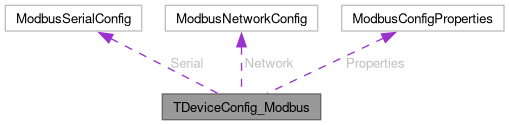
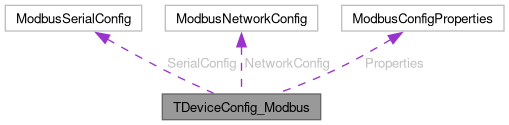
deploy: 09f88b0edcd4f0521835c6c754af1b856fd0163e

diff --git a/structTDeviceConfig__Modbus.html b/structTDeviceConfig__Modbus.html
@@ -97,11 +97,11 @@ Collaboration diagram for TDeviceConfig_Modbus:</div>
 <map name="aTDeviceConfig__Modbus_coll__map" id="aTDeviceConfig__Modbus_coll__map">
 <area shape="rect" title=" " alt="" coords="162,94,321,120"/>
 <area shape="rect" href="structModbusSerialConfig.html" title=" " alt="" coords="5,5,142,31"/>
-<area shape="poly" title=" " alt="" coords="112,36,219,91,217,96,110,41"/>
+<area shape="poly" title=" " alt="" coords="109,37,165,68,215,91,213,96,163,72,106,41"/>
 <area shape="rect" href="structModbusNetworkConfig.html" title=" " alt="" coords="165,5,318,31"/>
 <area shape="poly" title=" " alt="" coords="244,47,244,94,239,94,239,47"/>
 <area shape="rect" href="structModbusConfigProperties.html" title=" " alt="" coords="342,5,504,31"/>
-<area shape="poly" title=" " alt="" coords="385,41,268,96,266,91,382,36"/>
+<area shape="poly" title=" " alt="" coords="392,42,336,72,278,96,276,91,334,68,390,37"/>
 </map>
 <center><span class="legend">[<a href="graph_legend.html">legend</a>]</span></center></div>
 <table class="memberdecls">
@@ -116,12 +116,12 @@ unsigned char&#160;</td><td class="memItemRight" valign="bottom"><b>ModbusAddres
 <tr class="memitem:ae9d050d392f2681982792315d1c26feb" id="r_ae9d050d392f2681982792315d1c26feb"><td class="memItemLeft" align="right" valign="top"><a id="ae9d050d392f2681982792315d1c26feb" name="ae9d050d392f2681982792315d1c26feb"></a>
 unsigned _supla_int_t&#160;</td><td class="memItemRight" valign="bottom"><b>SlaveTimeoutMs</b></td></tr>
 <tr class="separator:ae9d050d392f2681982792315d1c26feb"><td class="memSeparator" colspan="2">&#160;</td></tr>
-<tr class="memitem:a705215c58be7b27e43768f9444173866" id="r_a705215c58be7b27e43768f9444173866"><td class="memItemLeft" align="right" valign="top"><a id="a705215c58be7b27e43768f9444173866" name="a705215c58be7b27e43768f9444173866"></a>
-<a class="el" href="structModbusSerialConfig.html">ModbusSerialConfig</a>&#160;</td><td class="memItemRight" valign="bottom"><b>Serial</b></td></tr>
-<tr class="separator:a705215c58be7b27e43768f9444173866"><td class="memSeparator" colspan="2">&#160;</td></tr>
-<tr class="memitem:a4c4c369b05a143f17951b0f72759ae0e" id="r_a4c4c369b05a143f17951b0f72759ae0e"><td class="memItemLeft" align="right" valign="top"><a id="a4c4c369b05a143f17951b0f72759ae0e" name="a4c4c369b05a143f17951b0f72759ae0e"></a>
-<a class="el" href="structModbusNetworkConfig.html">ModbusNetworkConfig</a>&#160;</td><td class="memItemRight" valign="bottom"><b>Network</b></td></tr>
-<tr class="separator:a4c4c369b05a143f17951b0f72759ae0e"><td class="memSeparator" colspan="2">&#160;</td></tr>
+<tr class="memitem:a7bc47ae1f204c3f8ed4a31fa35e57188" id="r_a7bc47ae1f204c3f8ed4a31fa35e57188"><td class="memItemLeft" align="right" valign="top"><a id="a7bc47ae1f204c3f8ed4a31fa35e57188" name="a7bc47ae1f204c3f8ed4a31fa35e57188"></a>
+<a class="el" href="structModbusSerialConfig.html">ModbusSerialConfig</a>&#160;</td><td class="memItemRight" valign="bottom"><b>SerialConfig</b></td></tr>
+<tr class="separator:a7bc47ae1f204c3f8ed4a31fa35e57188"><td class="memSeparator" colspan="2">&#160;</td></tr>
+<tr class="memitem:a388f48bfa25d1a9829f5d02fe24d9327" id="r_a388f48bfa25d1a9829f5d02fe24d9327"><td class="memItemLeft" align="right" valign="top"><a id="a388f48bfa25d1a9829f5d02fe24d9327" name="a388f48bfa25d1a9829f5d02fe24d9327"></a>
+<a class="el" href="structModbusNetworkConfig.html">ModbusNetworkConfig</a>&#160;</td><td class="memItemRight" valign="bottom"><b>NetworkConfig</b></td></tr>
+<tr class="separator:a388f48bfa25d1a9829f5d02fe24d9327"><td class="memSeparator" colspan="2">&#160;</td></tr>
 <tr class="memitem:a3f6b1f6bdd50fc2e788b8e36b3bfec5b" id="r_a3f6b1f6bdd50fc2e788b8e36b3bfec5b"><td class="memItemLeft" align="right" valign="top"><a id="a3f6b1f6bdd50fc2e788b8e36b3bfec5b" name="a3f6b1f6bdd50fc2e788b8e36b3bfec5b"></a>
 <a class="el" href="structModbusConfigProperties.html">ModbusConfigProperties</a>&#160;</td><td class="memItemRight" valign="bottom"><b>Properties</b></td></tr>
 <tr class="separator:a3f6b1f6bdd50fc2e788b8e36b3bfec5b"><td class="memSeparator" colspan="2">&#160;</td></tr>

diff --git a/structTDeviceConfig__Modbus-members.html b/structTDeviceConfig__Modbus-members.html
@@ -91,11 +91,11 @@ $(function(){ initResizable(false); });
 <p>This is the complete list of members for <a class="el" href="structTDeviceConfig__Modbus.html">TDeviceConfig_Modbus</a>, including all inherited members.</p>
 <table class="directory">
   <tr bgcolor="#f0f0f0" class="even"><td class="entry"><b>ModbusAddress</b> (defined in <a class="el" href="structTDeviceConfig__Modbus.html">TDeviceConfig_Modbus</a>)</td><td class="entry"><a class="el" href="structTDeviceConfig__Modbus.html">TDeviceConfig_Modbus</a></td><td class="entry"></td></tr>
-  <tr bgcolor="#f0f0f0" class="odd"><td class="entry"><b>Network</b> (defined in <a class="el" href="structTDeviceConfig__Modbus.html">TDeviceConfig_Modbus</a>)</td><td class="entry"><a class="el" href="structTDeviceConfig__Modbus.html">TDeviceConfig_Modbus</a></td><td class="entry"></td></tr>
+  <tr bgcolor="#f0f0f0" class="odd"><td class="entry"><b>NetworkConfig</b> (defined in <a class="el" href="structTDeviceConfig__Modbus.html">TDeviceConfig_Modbus</a>)</td><td class="entry"><a class="el" href="structTDeviceConfig__Modbus.html">TDeviceConfig_Modbus</a></td><td class="entry"></td></tr>
   <tr bgcolor="#f0f0f0" class="even"><td class="entry"><b>Properties</b> (defined in <a class="el" href="structTDeviceConfig__Modbus.html">TDeviceConfig_Modbus</a>)</td><td class="entry"><a class="el" href="structTDeviceConfig__Modbus.html">TDeviceConfig_Modbus</a></td><td class="entry"></td></tr>
   <tr bgcolor="#f0f0f0" class="odd"><td class="entry"><b>Reserved</b> (defined in <a class="el" href="structTDeviceConfig__Modbus.html">TDeviceConfig_Modbus</a>)</td><td class="entry"><a class="el" href="structTDeviceConfig__Modbus.html">TDeviceConfig_Modbus</a></td><td class="entry"></td></tr>
   <tr bgcolor="#f0f0f0" class="even"><td class="entry"><b>Role</b> (defined in <a class="el" href="structTDeviceConfig__Modbus.html">TDeviceConfig_Modbus</a>)</td><td class="entry"><a class="el" href="structTDeviceConfig__Modbus.html">TDeviceConfig_Modbus</a></td><td class="entry"></td></tr>
-  <tr bgcolor="#f0f0f0" class="odd"><td class="entry"><b>Serial</b> (defined in <a class="el" href="structTDeviceConfig__Modbus.html">TDeviceConfig_Modbus</a>)</td><td class="entry"><a class="el" href="structTDeviceConfig__Modbus.html">TDeviceConfig_Modbus</a></td><td class="entry"></td></tr>
+  <tr bgcolor="#f0f0f0" class="odd"><td class="entry"><b>SerialConfig</b> (defined in <a class="el" href="structTDeviceConfig__Modbus.html">TDeviceConfig_Modbus</a>)</td><td class="entry"><a class="el" href="structTDeviceConfig__Modbus.html">TDeviceConfig_Modbus</a></td><td class="entry"></td></tr>
   <tr bgcolor="#f0f0f0" class="even"><td class="entry"><b>SlaveTimeoutMs</b> (defined in <a class="el" href="structTDeviceConfig__Modbus.html">TDeviceConfig_Modbus</a>)</td><td class="entry"><a class="el" href="structTDeviceConfig__Modbus.html">TDeviceConfig_Modbus</a></td><td class="entry"></td></tr>
 </table></div><!-- contents -->
 <!-- start footer part -->

diff --git a/proto_8h_source.html b/proto_8h_source.html
@@ -3355,8 +3355,8 @@ $(function(){ initResizable(false); });
 <div class="line"><a id="l02929" name="l02929"></a><span class="lineno"> 2929</span>  <span class="keywordtype">unsigned</span> <span class="keywordtype">char</span> Role;  <span class="comment">// MODBUS_ROLE_*</span></div>
 <div class="line"><a id="l02930" name="l02930"></a><span class="lineno"> 2930</span>  <span class="keywordtype">unsigned</span> <span class="keywordtype">char</span> ModbusAddress;  <span class="comment">// only for slave</span></div>
 <div class="line"><a id="l02931" name="l02931"></a><span class="lineno"> 2931</span>  <span class="keywordtype">unsigned</span> _supla_int_t SlaveTimeoutMs;  <span class="comment">// only for master</span></div>
-<div class="line"><a id="l02932" name="l02932"></a><span class="lineno"> 2932</span>  <a class="code hl_struct" href="structModbusSerialConfig.html">ModbusSerialConfig</a> Serial;</div>
-<div class="line"><a id="l02933" name="l02933"></a><span class="lineno"> 2933</span>  <a class="code hl_struct" href="structModbusNetworkConfig.html">ModbusNetworkConfig</a> Network;</div>
+<div class="line"><a id="l02932" name="l02932"></a><span class="lineno"> 2932</span>  <a class="code hl_struct" href="structModbusSerialConfig.html">ModbusSerialConfig</a> SerialConfig;</div>
+<div class="line"><a id="l02933" name="l02933"></a><span class="lineno"> 2933</span>  <a class="code hl_struct" href="structModbusNetworkConfig.html">ModbusNetworkConfig</a> NetworkConfig;</div>
 <div class="line"><a id="l02934" name="l02934"></a><span class="lineno"> 2934</span>  <a class="code hl_struct" href="structModbusConfigProperties.html">ModbusConfigProperties</a> Properties;</div>
 <div class="line"><a id="l02935" name="l02935"></a><span class="lineno"> 2935</span>  <span class="keywordtype">unsigned</span> <span class="keywordtype">char</span> Reserved[20];</div>
 <div class="line"><a id="l02936" name="l02936"></a><span class="lineno"> 2936</span>} <a class="code hl_struct" href="structTDeviceConfig__Modbus.html">TDeviceConfig_Modbus</a>;</div>
